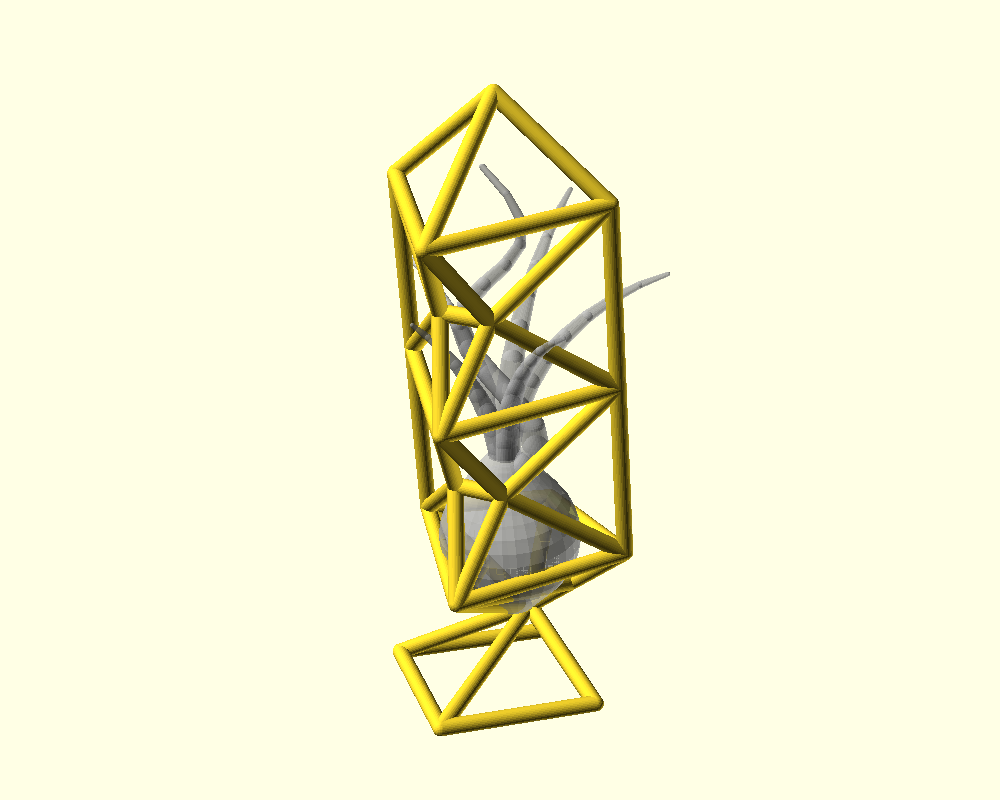
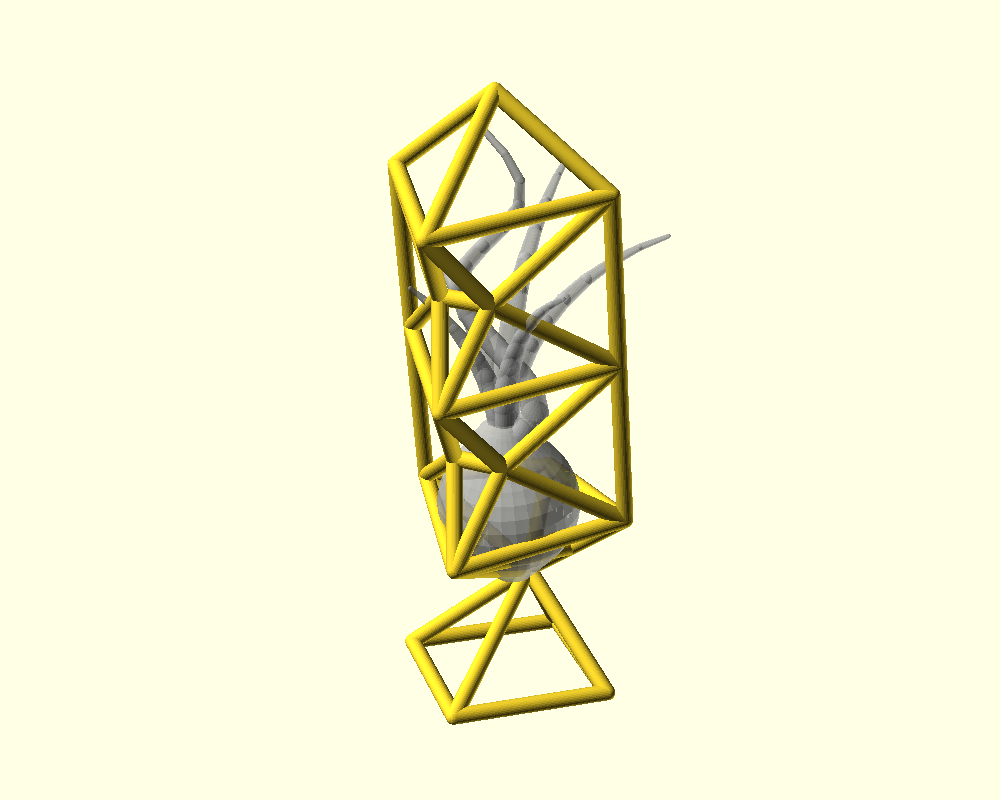
Fix v003 base proportions to match the diamonds
The base pyramid was 13mm tall and skewed vs the 25mm diamond halves
above it. Ground ring re-centered near the peak and pyramid raised to
25mm so the base is now the same shape as a diamond half (60 wide x
25 tall). Diamond sections trimmed to 46mm to keep total ~164mm; scoop
and reference plant repositioned. STL validated.

Claude-Session: https://claude.ai/code/session_01KA6Q5hMYxLc6YU5N6bdmxn

Changed region(s): [[0.372, 0.0938, 0.682, 0.9375]]

diff --git a/models/air_plant_holder/README.md b/models/air_plant_holder/README.md
@@ -59,12 +59,13 @@ crown ring is a large horizontal loop in mid-air and will need supports.
 ## Version 003 — triple diamond
 
 `air_plant_holder_003.scad` extends v001 to THREE stacked identical diamonds
-(60 × 50mm each, ~164mm overall). Same wireframe base pyramid, back apex per
+(60 × 46mm each, ~164mm overall). Same wireframe base pyramid, back apex per
 diamond, bottom front scoop, and two recessed waist bars. The plant occupies
-the lower two diamonds; the top diamond crowns the height. The ground ring is
-tightened to 60 × 60mm to match the diamonds' proportions. Vertical beams run
-along the front edges through the diamonds' collinear side tips (x = ±30),
-tying the three diamonds together and stiffening the front frame.
+the lower two diamonds; the top diamond crowns the height. The base pyramid
+matches the diamonds' proportions exactly: 60 × 60mm ground ring, 25mm tall —
+the same shape as a diamond half. Vertical beams run along the front edges
+through the diamonds' collinear side tips (x = ±30), tying the three diamonds
+together and stiffening the front frame.
 
 ## Files
 